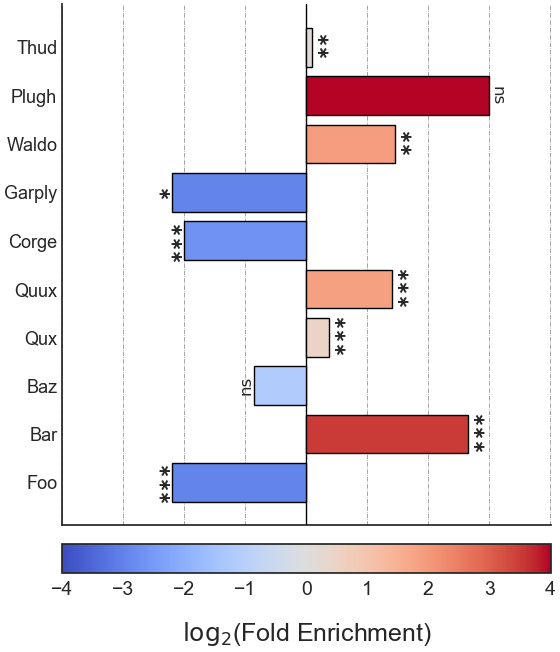
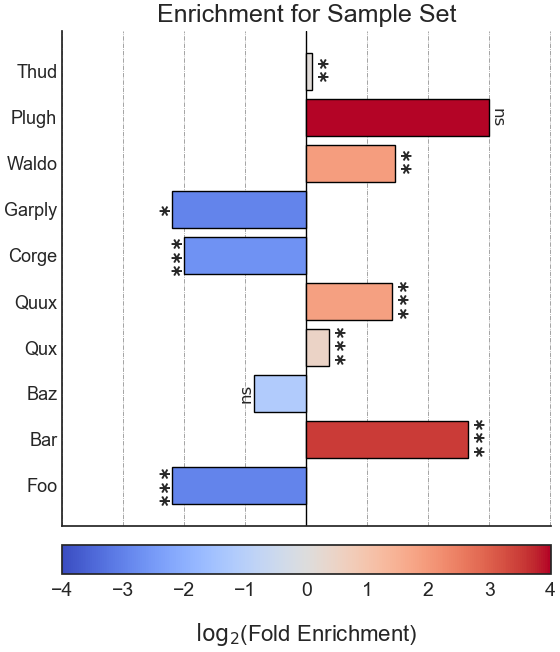
added title to enrichment sample outputs, added sample output for enrich_single_list

diff --git a/rnalysis/enrichment.py b/rnalysis/enrichment.py
@@ -471,7 +471,8 @@ class FeatureSet:
             self._enrichment_save_csv(res_df, fname)
 
         if plot:
-            fig = self.plot_enrichment_results(res_df, title=self.set_name, plot_horizontal=plot_horizontal)
+            fig = self.plot_enrichment_results(res_df, title=f"Enrichment for {self.set_name}",
+                                               plot_horizontal=plot_horizontal)
             if return_fig:
                 return res_df, fig
         return res_df
@@ -826,7 +827,6 @@ class FeatureSet:
             tick_func = plt.Axes.set_yticks
             ticklabels_func = plt.Axes.set_yticklabels
             ticklabels_kwargs = dict(fontsize=13, rotation=0)
-            cbar_label_kwargs = dict(label=ylabel, fontsize=18, labelpad=15)
         else:
             figsize = [0.5 * (6.4 + df.shape[0]), 5.6]
             bar_func = plt.Axes.bar
@@ -835,7 +835,6 @@ class FeatureSet:
             tick_func = plt.Axes.set_xticks
             ticklabels_func = plt.Axes.set_xticklabels
             ticklabels_kwargs = dict(fontsize=13, rotation=45)
-            cbar_label_kwargs = dict(label=ylabel, fontsize=18, labelpad=15)
 
         # pull names/scores/pvals out to avoid accidentally changing the results DataFrame in-place
         enrichment_names = df.index.values.tolist()
@@ -874,6 +873,7 @@ class FeatureSet:
         # add colorbar
         sm = ScalarMappable(cmap=my_cmap, norm=plt.Normalize(*bounds))
         sm.set_array(np.array([]))
+        cbar_label_kwargs = dict(label=ylabel, fontsize=16, labelpad=15)
         cbar = fig.colorbar(sm, ticks=range(int(bounds[0]), int(bounds[1]) + 1), **cbar_kwargs)
         cbar.set_label(**cbar_label_kwargs)
         cbar.ax.tick_params(labelsize=14, pad=6)
@@ -881,7 +881,7 @@ class FeatureSet:
         tick_func(ax, range(len(enrichment_names)))
         ticklabels_func(ax, enrichment_names, **ticklabels_kwargs)
         # title
-        ax.set_title(title, fontsize=16)
+        ax.set_title(title, fontsize=18)
         # add significance asterisks
         for col, sig in zip(bar, enrichment_pvalue):
             asterisks, fontweight = FeatureSet._get_pval_asterisk(sig)
@@ -1132,6 +1132,20 @@ class RankedSet(FeatureSet):
         :rtype: pd.DataFrame (default) or Tuple[pd.DataFrame, matplotlib.figure.Figure]
         :return: a pandas DataFrame with the indicated attribute names as rows/index; \
         and a matplotlib Figure, if 'return_figure' is set to True.
+
+        .. figure::  plot_enrichment_results_single_list.png
+           :align:   center
+           :scale: 60 %
+
+           Example plot of enrich_single_list()
+
+
+        .. figure::  plot_enrichment_results_single_list_vertical.png
+           :align:   center
+           :scale: 60 %
+
+           Example plot of enrich_single_list(plot_horizontal = False)
+
         """
         attr_ref_df, gene_set, attributes = self._enrichment_setup(biotype='all', background_genes=None,
                                                                    attr_ref_path=attr_ref_path, biotype_ref_path='',
